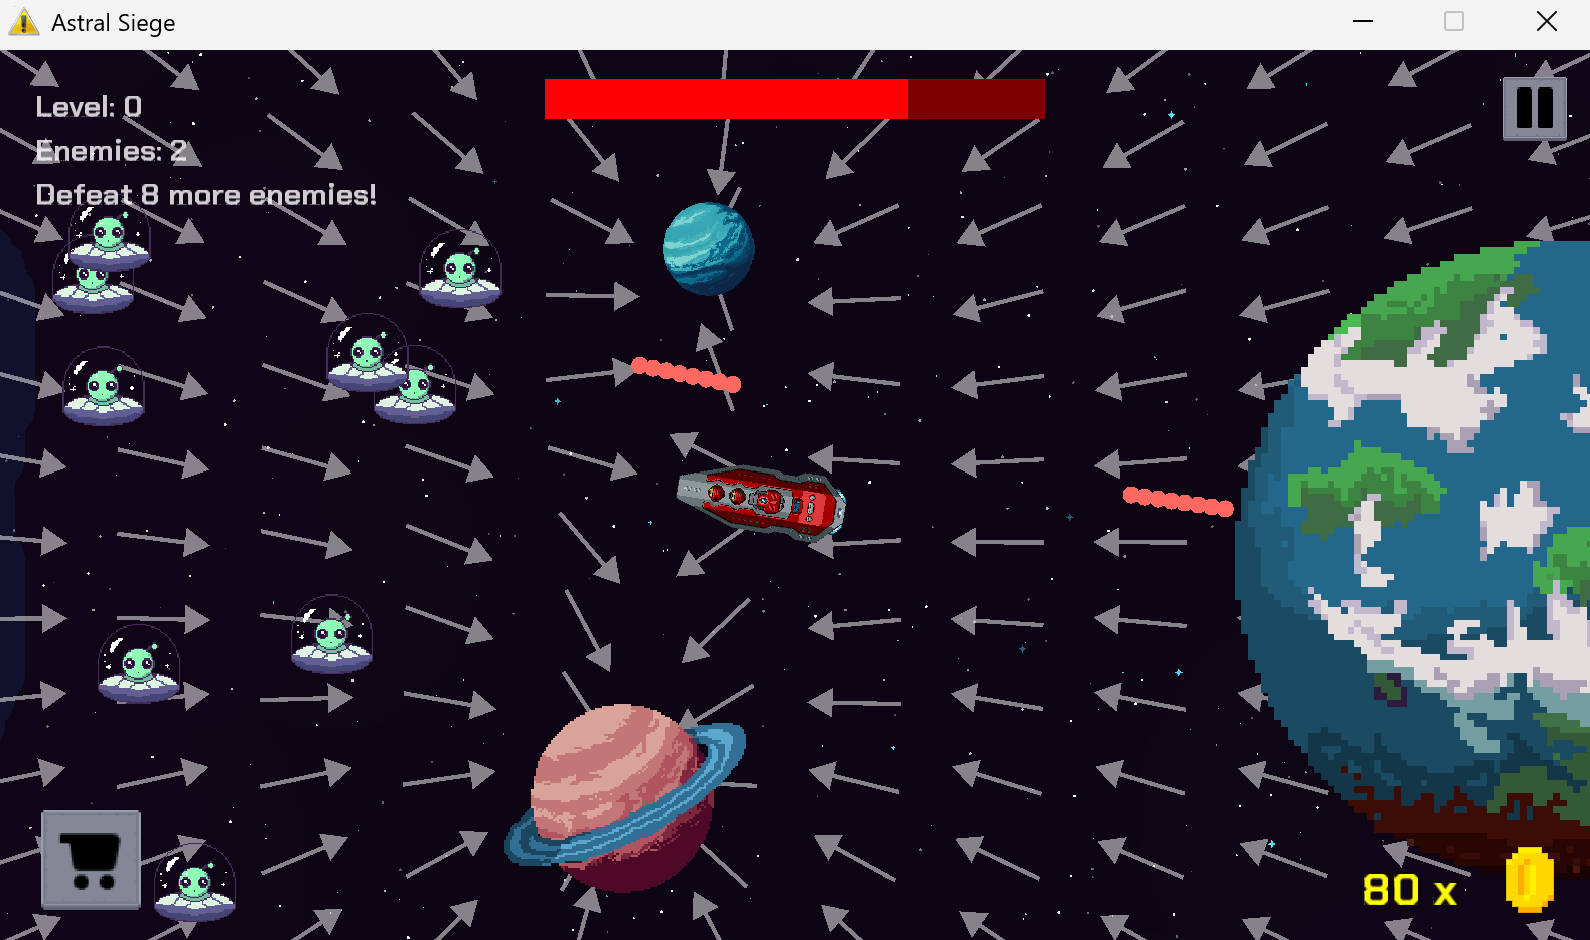
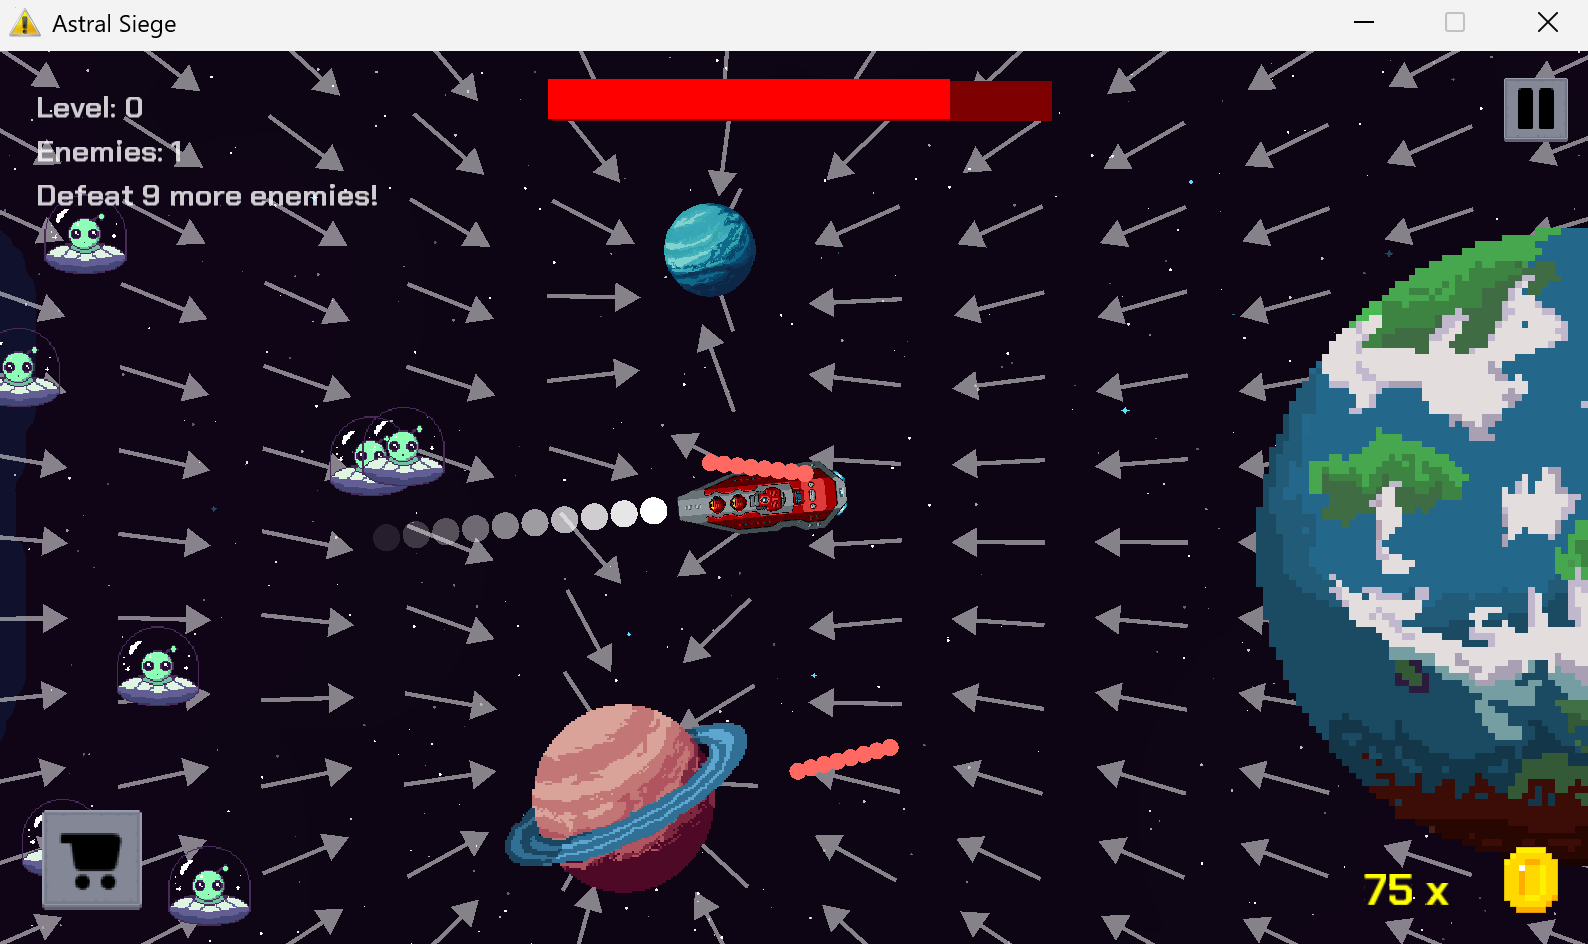
Update README and images

diff --git a/README.md b/README.md
@@ -24,9 +24,8 @@ telescope, and push the alien horde back before it's too late.
 
 ## Screenshots
 
-![Gameplay](Images/gameplay1.png)
-![Gameplay](Images/gameplay2.png)
-![Gameplay](Images/gameplay3.png)
+<img src="Images/gameplay1.png" width="600"/>
+<img src="Images/gameplay2.png" width="600"/>
 
 ## Built With
 